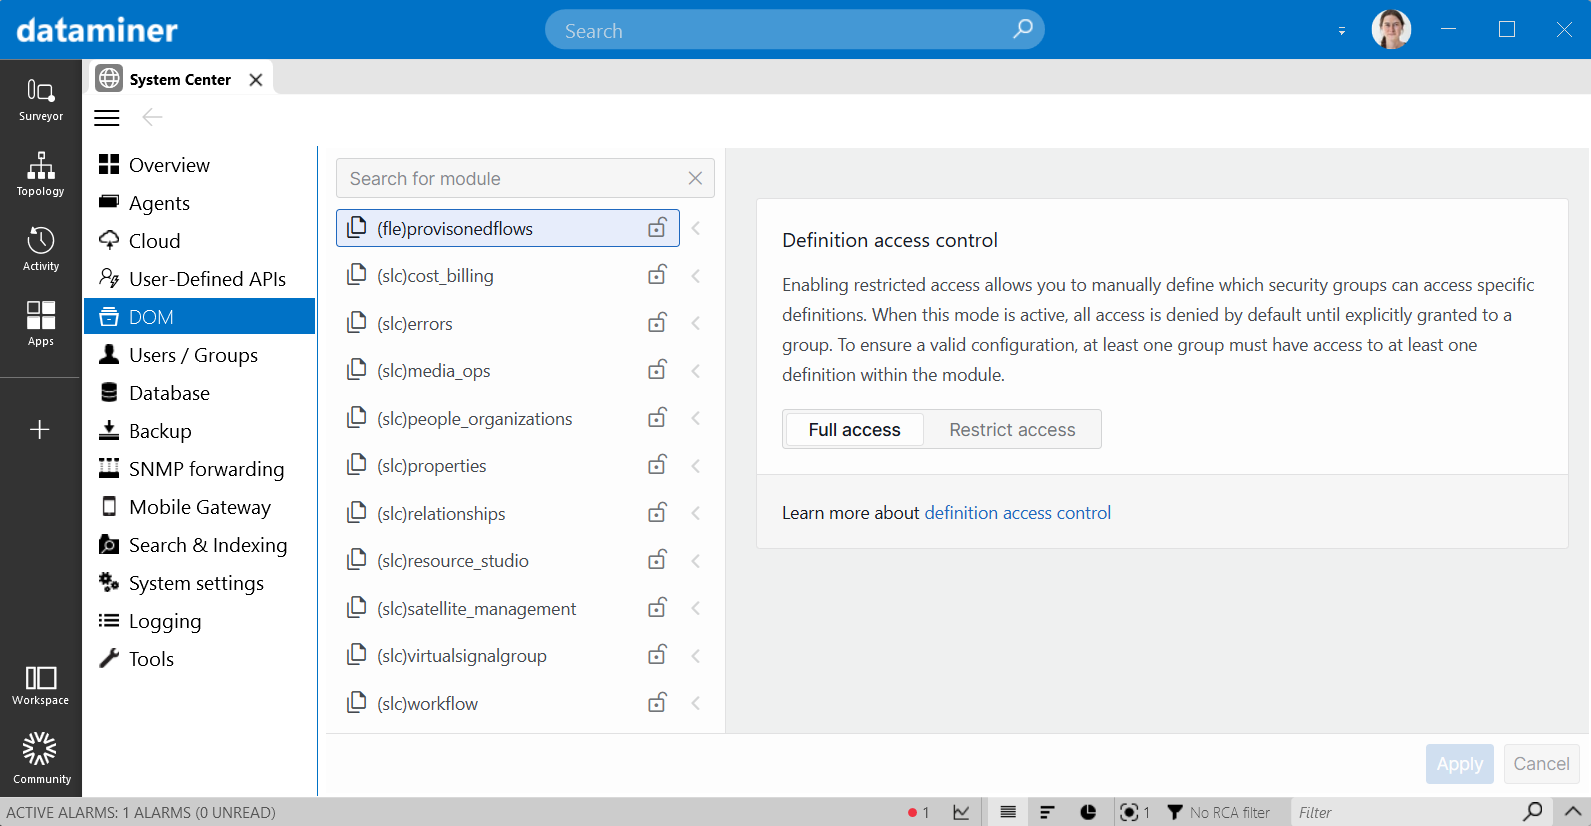
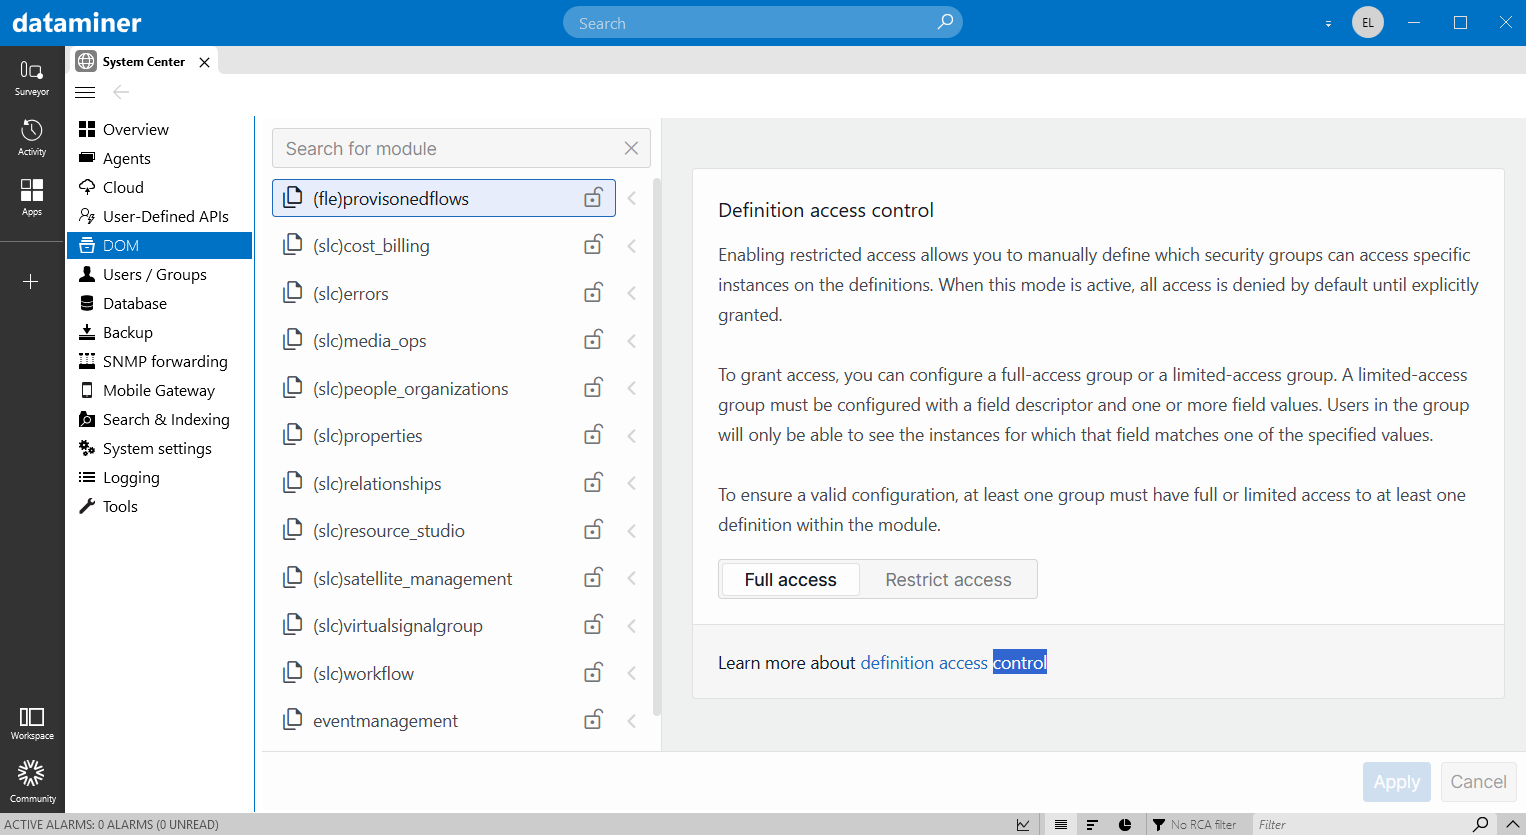
WIP 29/01

diff --git a/dataminer/Functions/DOM/DOM_security_configuration.md b/dataminer/Functions/DOM/DOM_security_configuration.md
@@ -2,11 +2,11 @@
 uid: DOM_security_ui
 ---
 
-# Configuring DOM definition-level security
+# Configuring DOM security
 
 <!-- RN 43622 -->
 
-From DataMiner 10.5.11/10.6.0 onwards, you can configure definition-level security settings for DOM. In the background, this will make use of the [link security](xref:DOM_security#link-security) feature.
+From DataMiner 10.5.11/10.6.0 onwards, you can configure definition-level security settings for DOM. From DataMiner 10.5.0 [CU12]/10.6.3 onwards<!--RN 44385-->, you can also configure security at DOM instance level. In the background, this will make use of the [link security](xref:DOM_security#link-security) feature.
 
 ![Configuring DOM definition-level security in DataMiner 10.5.11](~/dataminer/images/DOMSecurityApp.png)<br>*Configuring DOM definition-level security in DataMiner 10.5.11*
 
@@ -27,13 +27,23 @@ The UI displays all available DOM modules in a list on the left, with a filter b
 
 By default, all users will have full access to all DOM modules, which means that they will all be allowed to create, read, update, and delete DOM definitions in all available DOM modules.
 
-To restrict access for specific definitions:
+To restrict access for specific definitions and their individual instances:
 
 1. Select the module, and switch to *Restrict access* with the button on the right.
 
    At this point, no one will have access to the definitions in the module. The list of DOM definitions within the module will expand so you can select a definition.
 
-1. Select a definition and switch the groups with users that need to be able to read, update, and delete that DOM definition to *Full Access*.
+1. Select a definition and switch the groups with users to the desired level of access:
+
+   - *No access*: The group does not have permission to access the DOM definition.
+
+   - *Limited access*: Available from DataMiner 10.5.0 [CU12]/10.6.3 onwards<!--RN 44385-->. The user group has access to specific DOM instances based on whether that DOM instance contains at least one of a specified set of values for specified FieldDescriptor.
+
+   - *Full access*: The group will be able to read, update, and delete that DOM definition to *Full Access*.
+
+1. If you have selected *Limited access*, select a field descriptor and specify the value it needs to be equal to.
+
+   For example, the user group "London employees" will only be able to read the "Job" instances where the *Assigned office* field (i.e. a `DomInstanceFieldDescriptor`) contains the ID of the DOM instance for the London office.
 
 1. Repeat this for each definition users should have access to.
 
